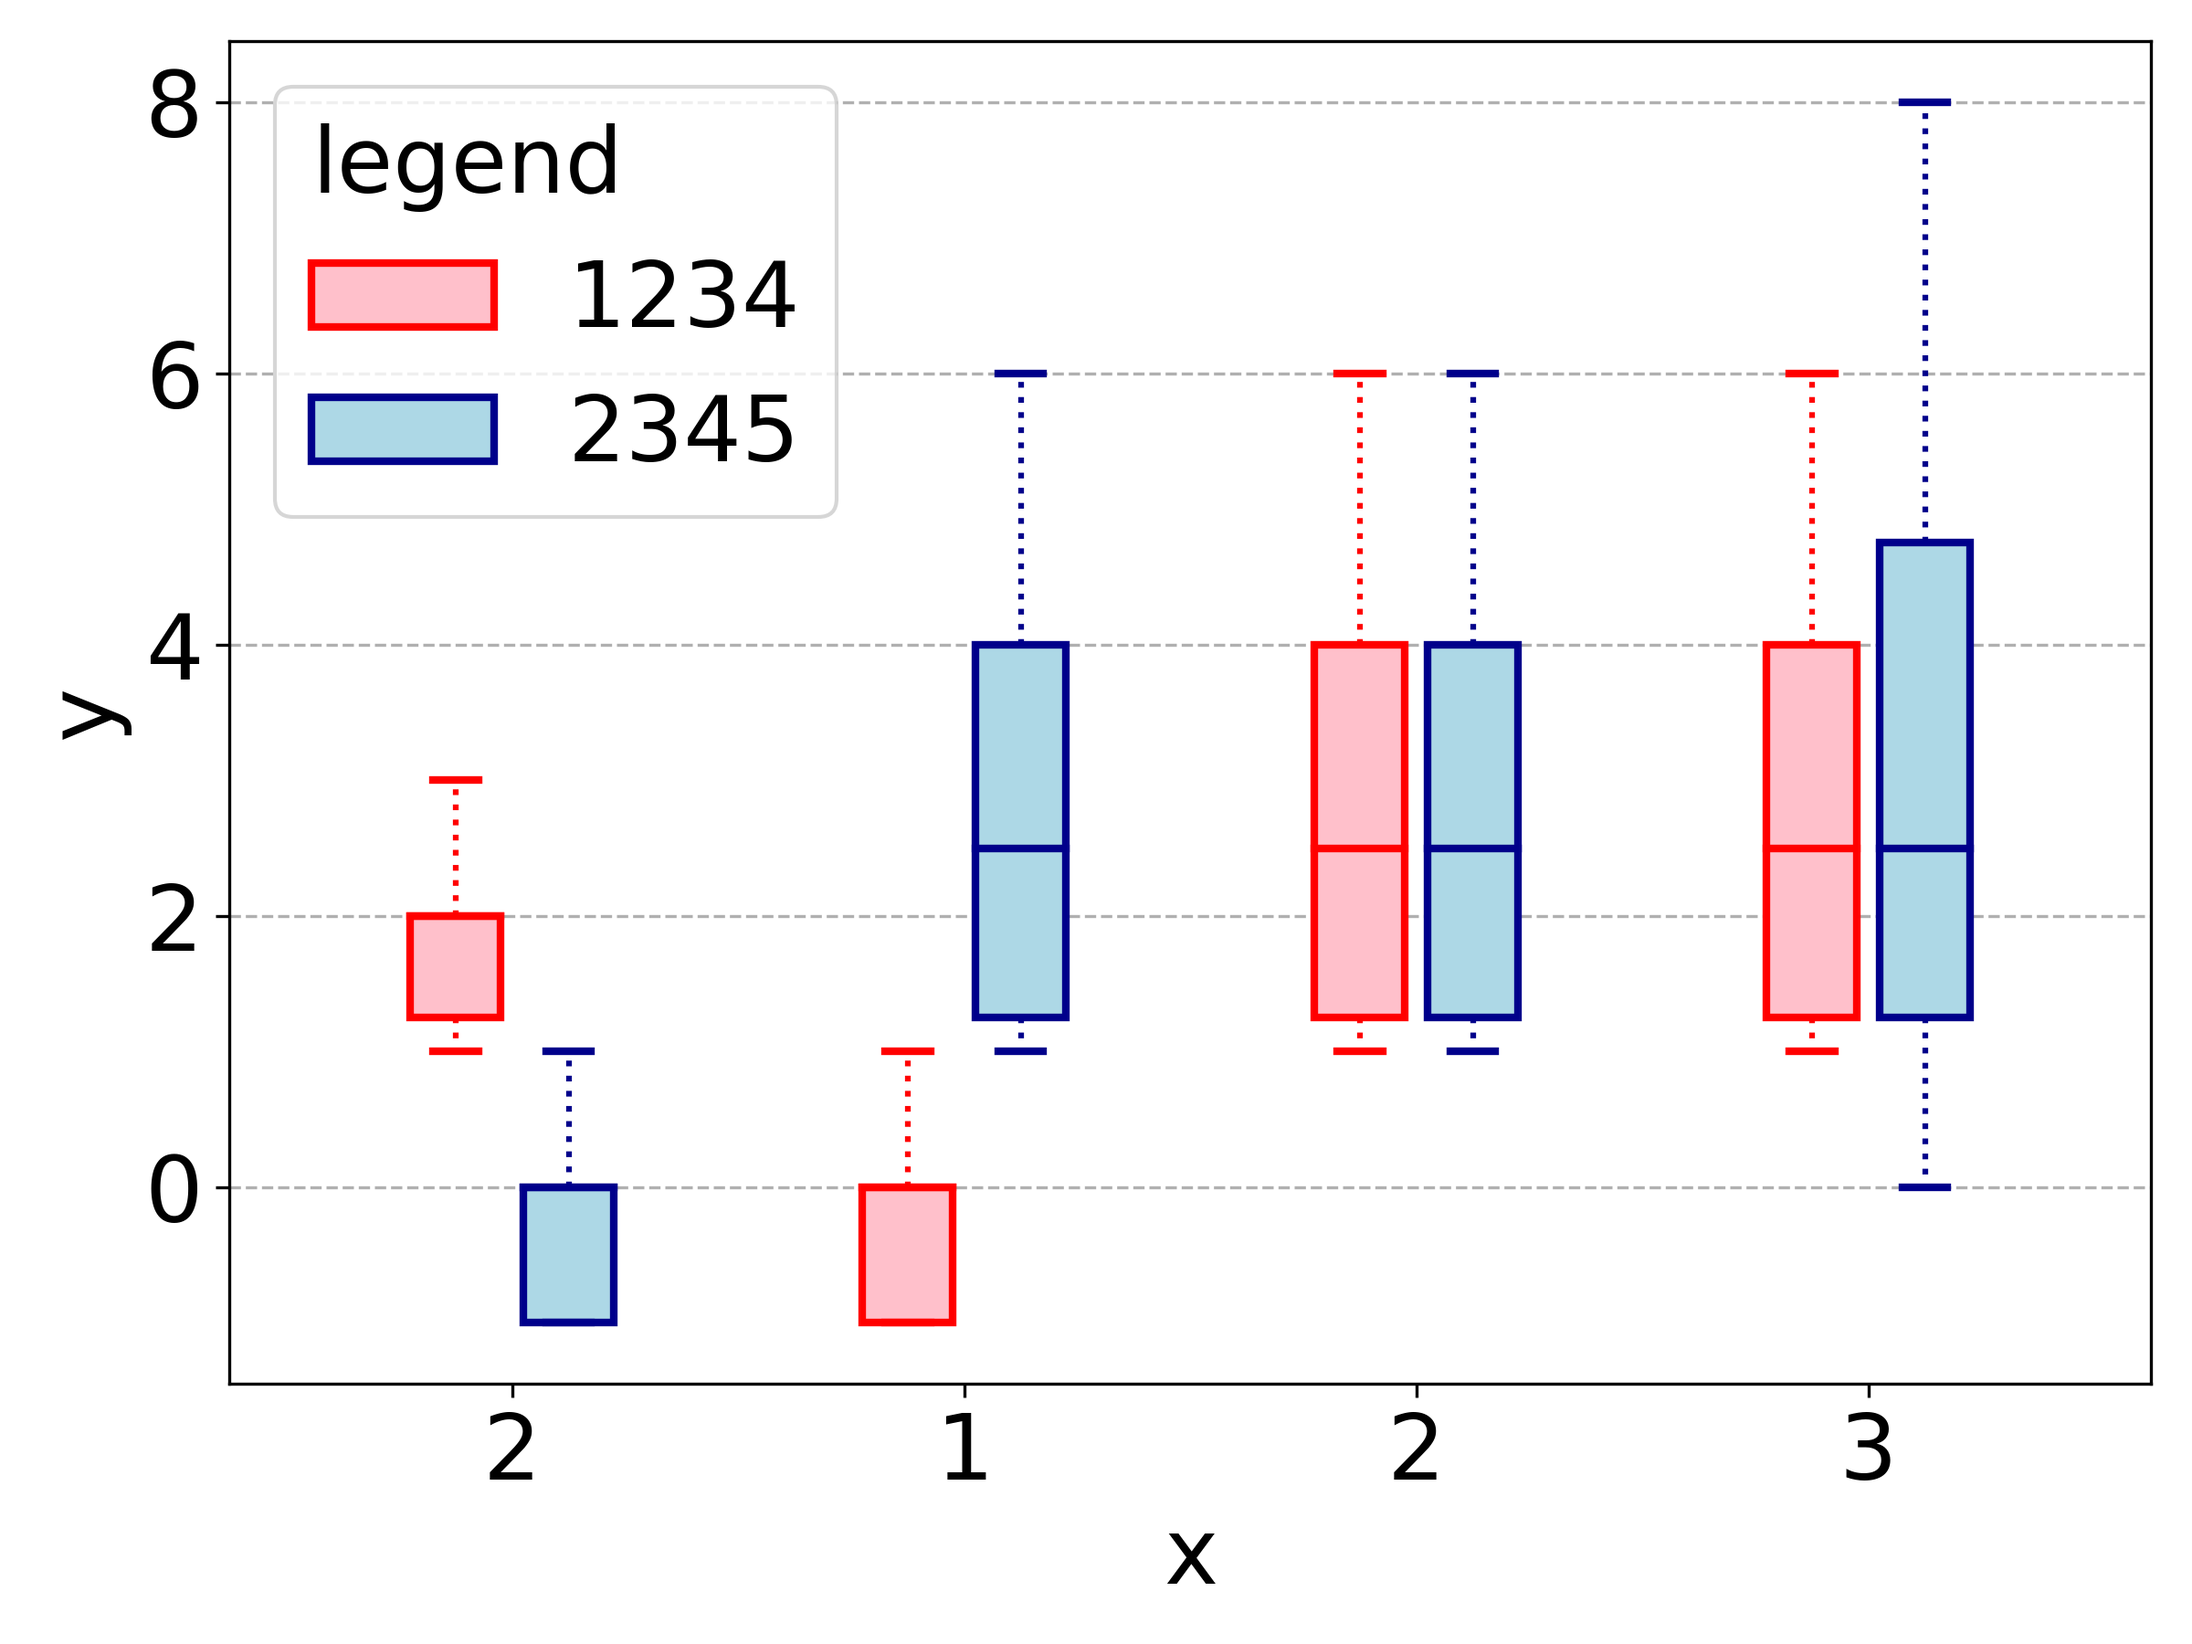
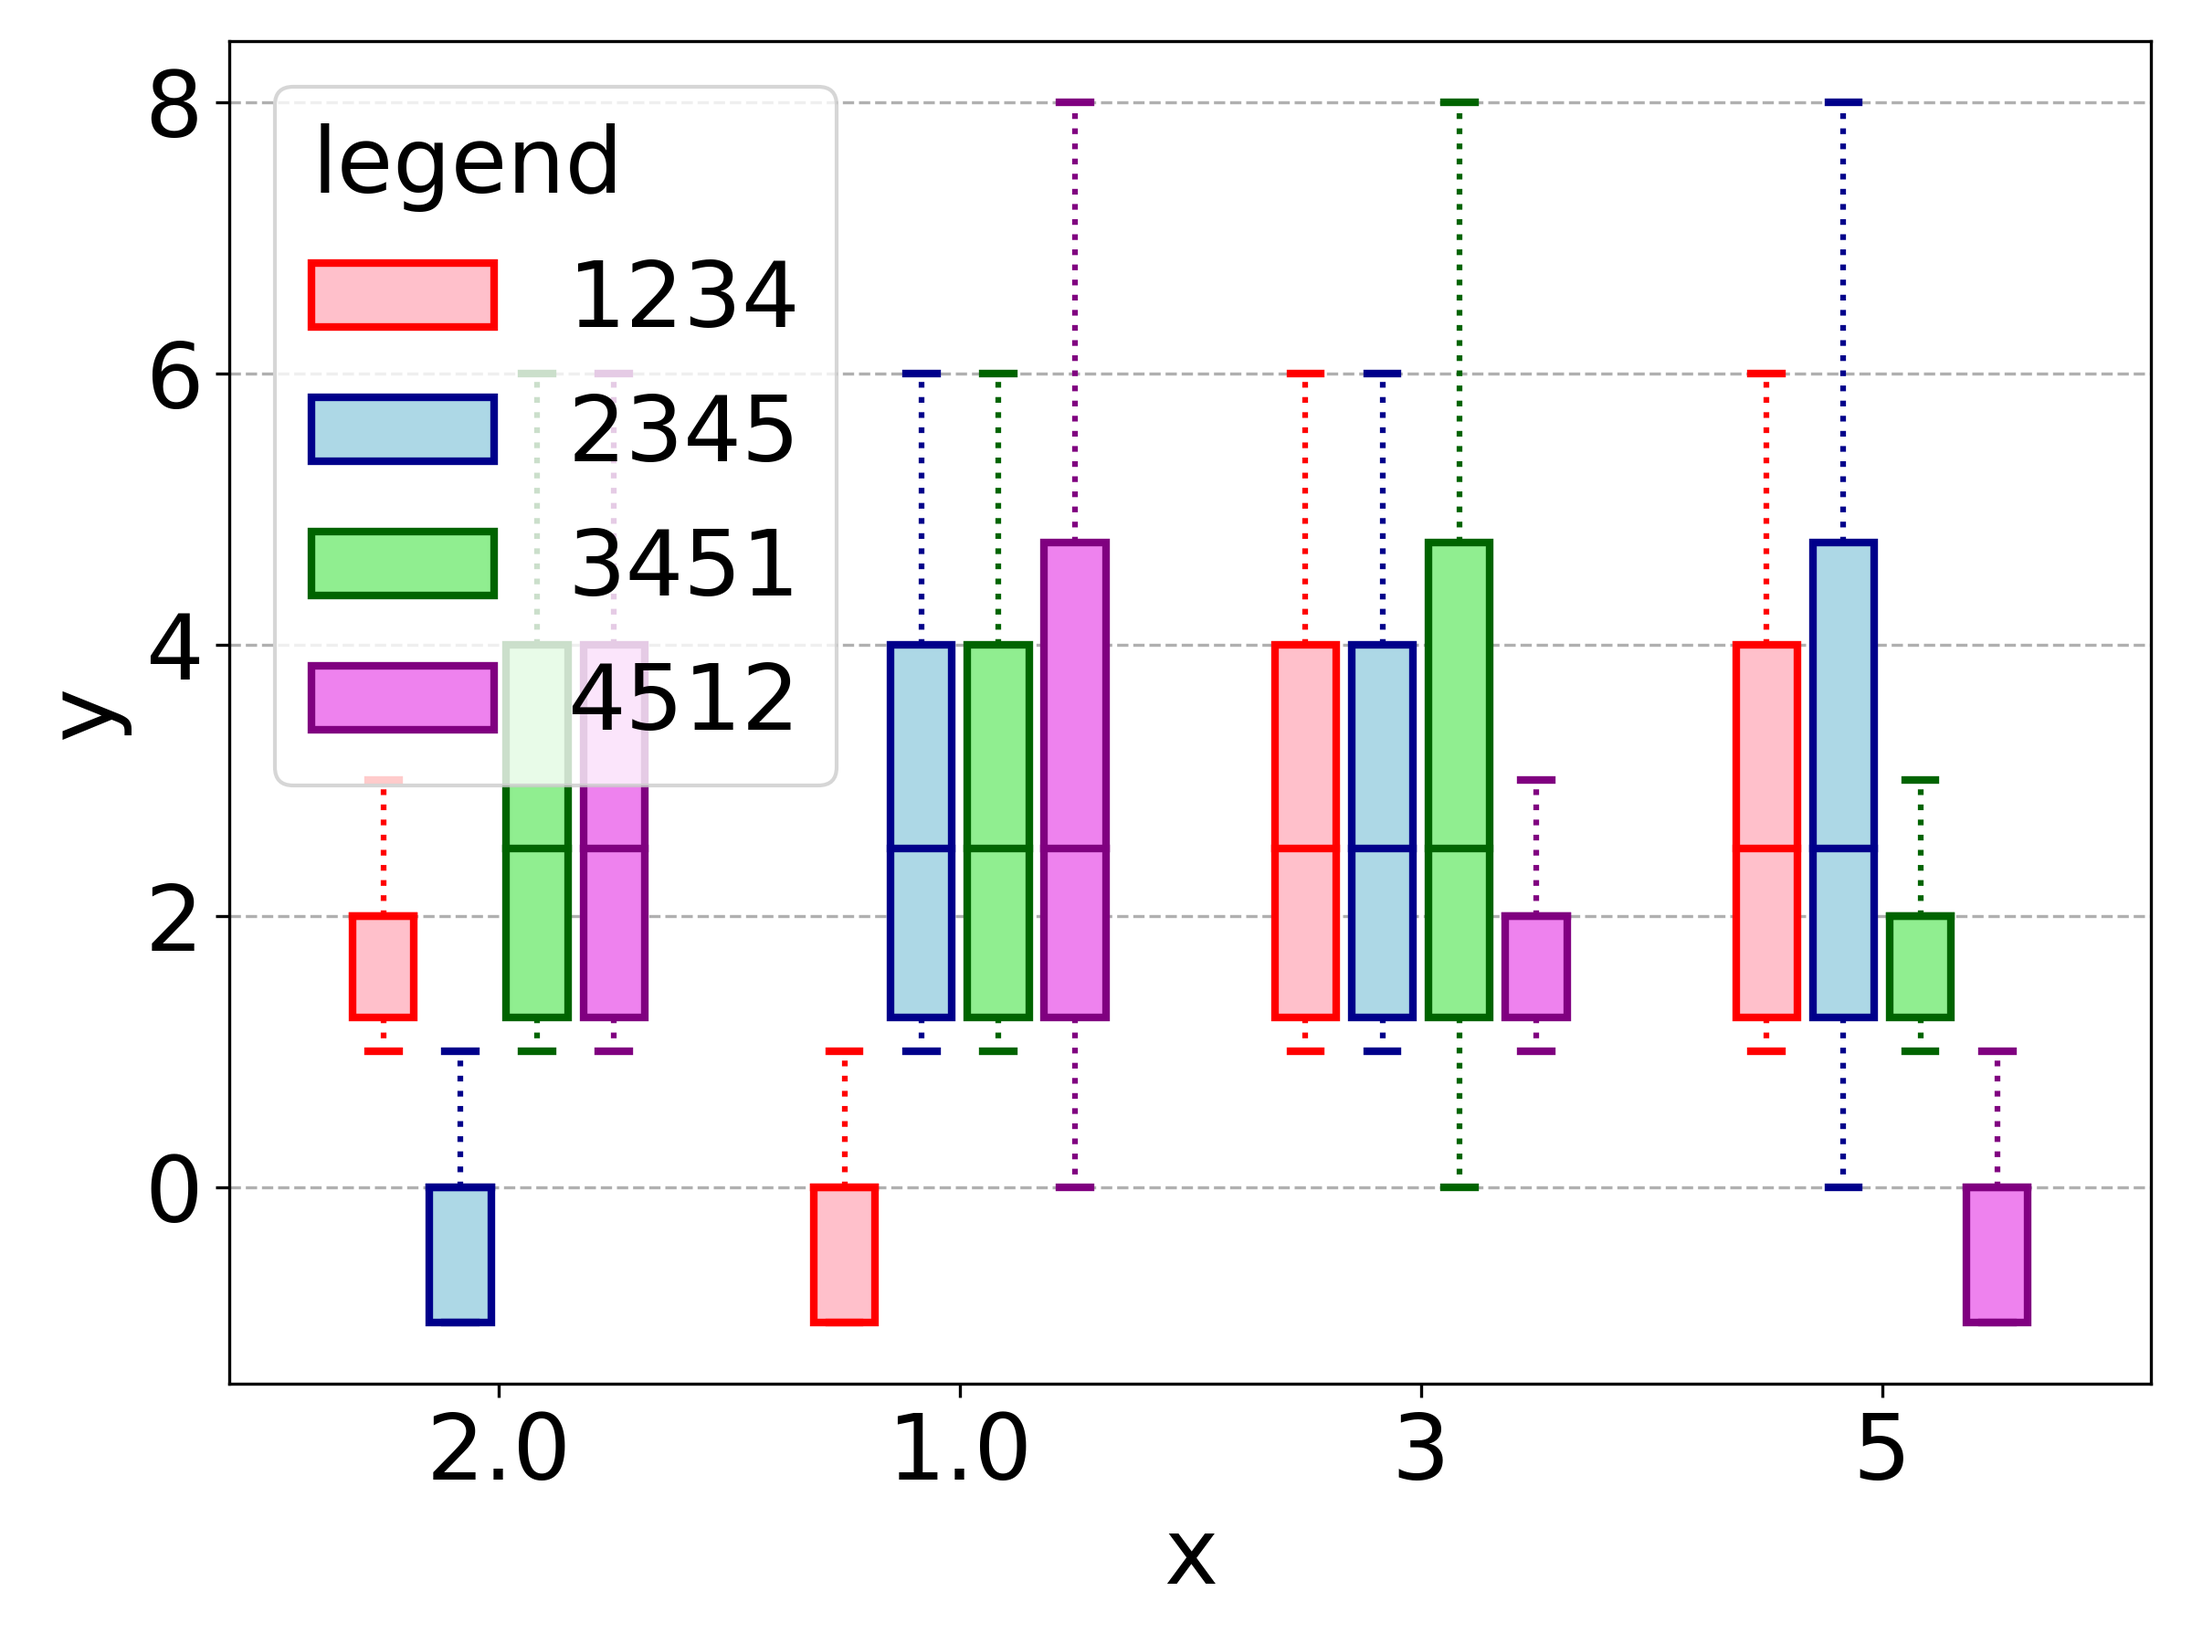
Update colors and apis

diff --git a/pyplotter/plot.py b/pyplotter/plot.py
@@ -4,8 +4,7 @@ import os
 import numpy as np
 from matplotlib.ticker import FuncFormatter
 from scipy import stats
-
-import matplotlib.ticker as mtick
+from typing import List
 
 
 class Pyplot_config:
@@ -187,7 +186,7 @@ class Plotter(Pyplot_config):
         pass
 
     # 绘制 box 图
-    def plot_boxes(self, x=None, box_data_list=None, legend_label_list=None, x_label="Replicas", y_label="Cost",
+    def plot_boxes(self, x: List[str]=None, box_data_list=None, legend_label_list=None, x_label="Replicas", y_label="Cost",
                   legend_title="legend", legend_loc="best", legend_ncol=1, bbox_to_anchor=None, save_root="./",
                   filename="demo.png", is_show=False):
 
@@ -203,8 +202,8 @@ class Plotter(Pyplot_config):
         interval_xtick = interval * (len(legend_label_list) - 1) + space
         position = np.arange(1, 1 + interval_xtick * len(x), interval_xtick)
 
-        colors = ['red', 'darkblue', 'limegreen']
-        facecolors = ['pink', 'lightblue', 'lightgreen']
+        colors = ['red', 'darkblue', 'darkgreen', 'purple','gold']
+        facecolors = ['pink', 'lightblue', 'lightgreen', 'violet','yellow']
         boxes = []
 
         for i in range(len(legend_label_list)):
@@ -228,15 +227,10 @@ class Plotter(Pyplot_config):
         offset = interval * (len(legend_label_list) - 1) / 2
         ax.set_xticks([pos + offset for pos in position])
 
-        #####
-        x = [int(item) for item in x]
-        #####
 
         ax.set_xticklabels(x, fontsize=14, rotation=0)
         ax.tick_params(axis='both', which='major', labelsize=14)
 
-        # ax.yaxis.set_major_formatter(mtick.FormatStrFormatter('%.d'))
-        # ax.xaxis.set_major_formatter(mtick.FormatStrFormatter('%.d'))
 
         plt.xticks(size=self.label_size)
         plt.yticks(size=self.label_size)
@@ -291,17 +285,17 @@ class Plotter(Pyplot_config):
             plt.show()
 
 
-    def plot_grids(self, ms: list, ns: list, ys: list, x_label="Memory Size (MB)", y_label="Jobs", legend_label="Relative Error", save_root="./",
+    def plot_grids(self, x_list: list, y_list: list, z_list: list, x_label="Memory Size (MB)", y_label="Jobs", legend_label="Relative Error", save_root="./",
         filename="plot_grid_demo", is_show=False):
         # 绘制误差率的网格图
         fig = plt.figure(dpi=300, figsize=(8, 6))
         ax = plt.subplot(111)
 
         mapping = {} # 从(memory size, image num)到误差率的映射
-        for m, n, error in zip(ms, ns, ys):
+        for m, n, error in zip(x_list, y_list, z_list):
             mapping[(m, n)] = error
 
-        u_ms, u_ns = np.sort(np.unique(ms)), np.sort(np.unique(ns))
+        u_ms, u_ns = np.sort(np.unique(x_list)), np.sort(np.unique(y_list))
         xticks, yticks = range(len(u_ms)), range(len(u_ns))
         Xs, Ys = np.meshgrid(xticks, yticks)
         zs = [[mapping.setdefault((u_ms[Xs[i][j]], u_ns[Ys[i][j]]), 0) for j in range(len(xticks))] for i in
@@ -337,17 +331,22 @@ if __name__ == "__main__":
     y5 = [0, 2, 3, 4, 2, 1, 6, 8, 5, 1]
 
     my_plotter.plot_lines(
+        x_list=[[i for i in range(len(y1))] for i in range(5)],
         y_list=[y1,y2,y3,y4,y5],
         legend_label_list=["y1","y2","y3","y4","y5"],
+        x_label="X",
+        y_label="Y",
+        legend_loc="best",
+        legend_title="Legend",
         title="This is a demo!",
         save_root="./",
         filename="plot_lines_demo"
     )
 
     my_plotter.plot_boxes(
-        x=['2', '1', '2', '3'],
-        box_data_list=[[y1, y2, y3, y4], [y2, y3, y4, y5]],
-        legend_label_list=["1234", "2345"],
+        x=["2.0", "1.0", "3", "5"],
+        box_data_list=[[y1, y2, y3, y4], [y2, y3, y4, y5], [y3, y4, y5, y1], [y4, y5, y1, y2]],
+        legend_label_list=["1234", "2345", "3451", "4512"],
         x_label="x",
         y_label="y",
         save_root="./",
@@ -355,7 +354,7 @@ if __name__ == "__main__":
     )
 
     my_plotter.plot_bars(
-        x_data=[0,1,2,3],
+        x_data=["0","1.0","2","3.5"],
         bar_data_list=[
             [1,2,3,4],
             [2,3,4,5],
@@ -382,9 +381,9 @@ if __name__ == "__main__":
     )
 
     my_plotter.plot_grids(
-        ms=[1, 1, 1, 2, 2, 3, 3, 3, 3],
-        ns=[4, 5, 6, 4, 5, 6, 4, 5, 6],
-        ys=[1.1,2.2,1.3,1.4,4.5,1.6,1.7,1.8,4.9],
+        x_list=[1, 1, 1, 2, 2, 3, 3, 3, 3],
+        y_list=[4, 5, 6, 4, 5, 6, 4, 5, 6],
+        z_list=[1.1,2.2,1.3,1.4,4.5,1.6,1.7,1.8,4.9],
         x_label="X",
         y_label="Y",
         legend_label="Error",
